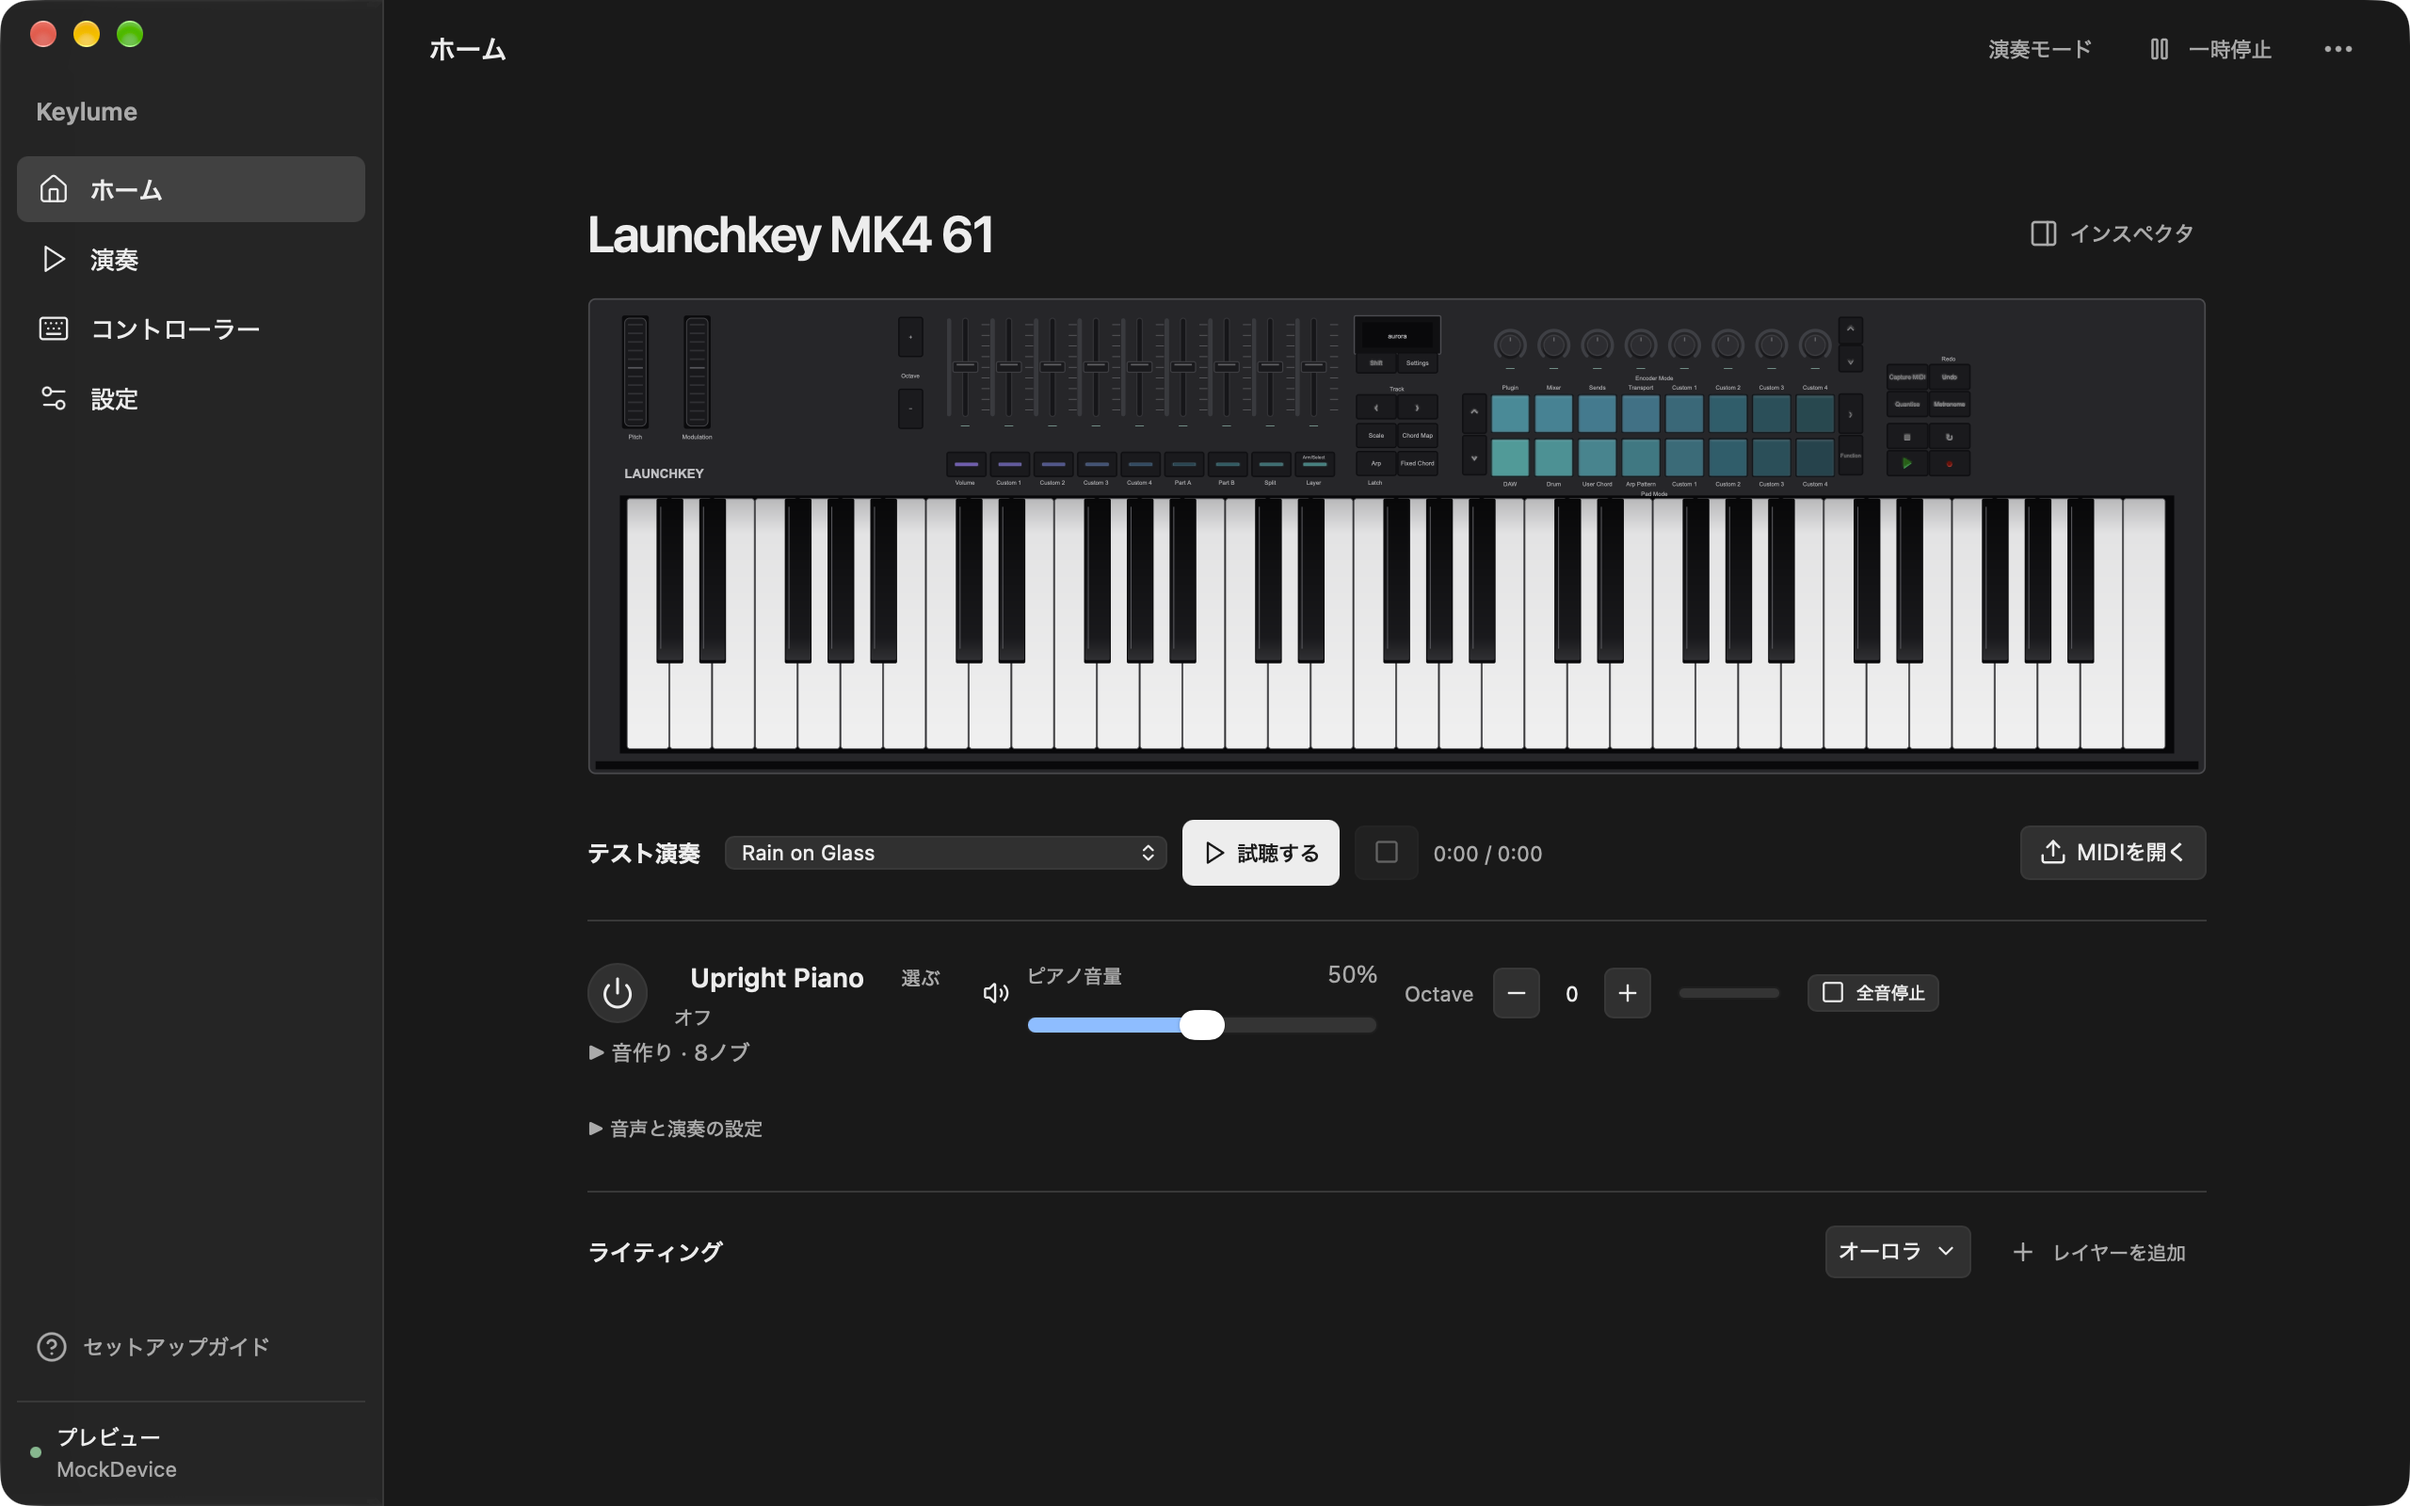
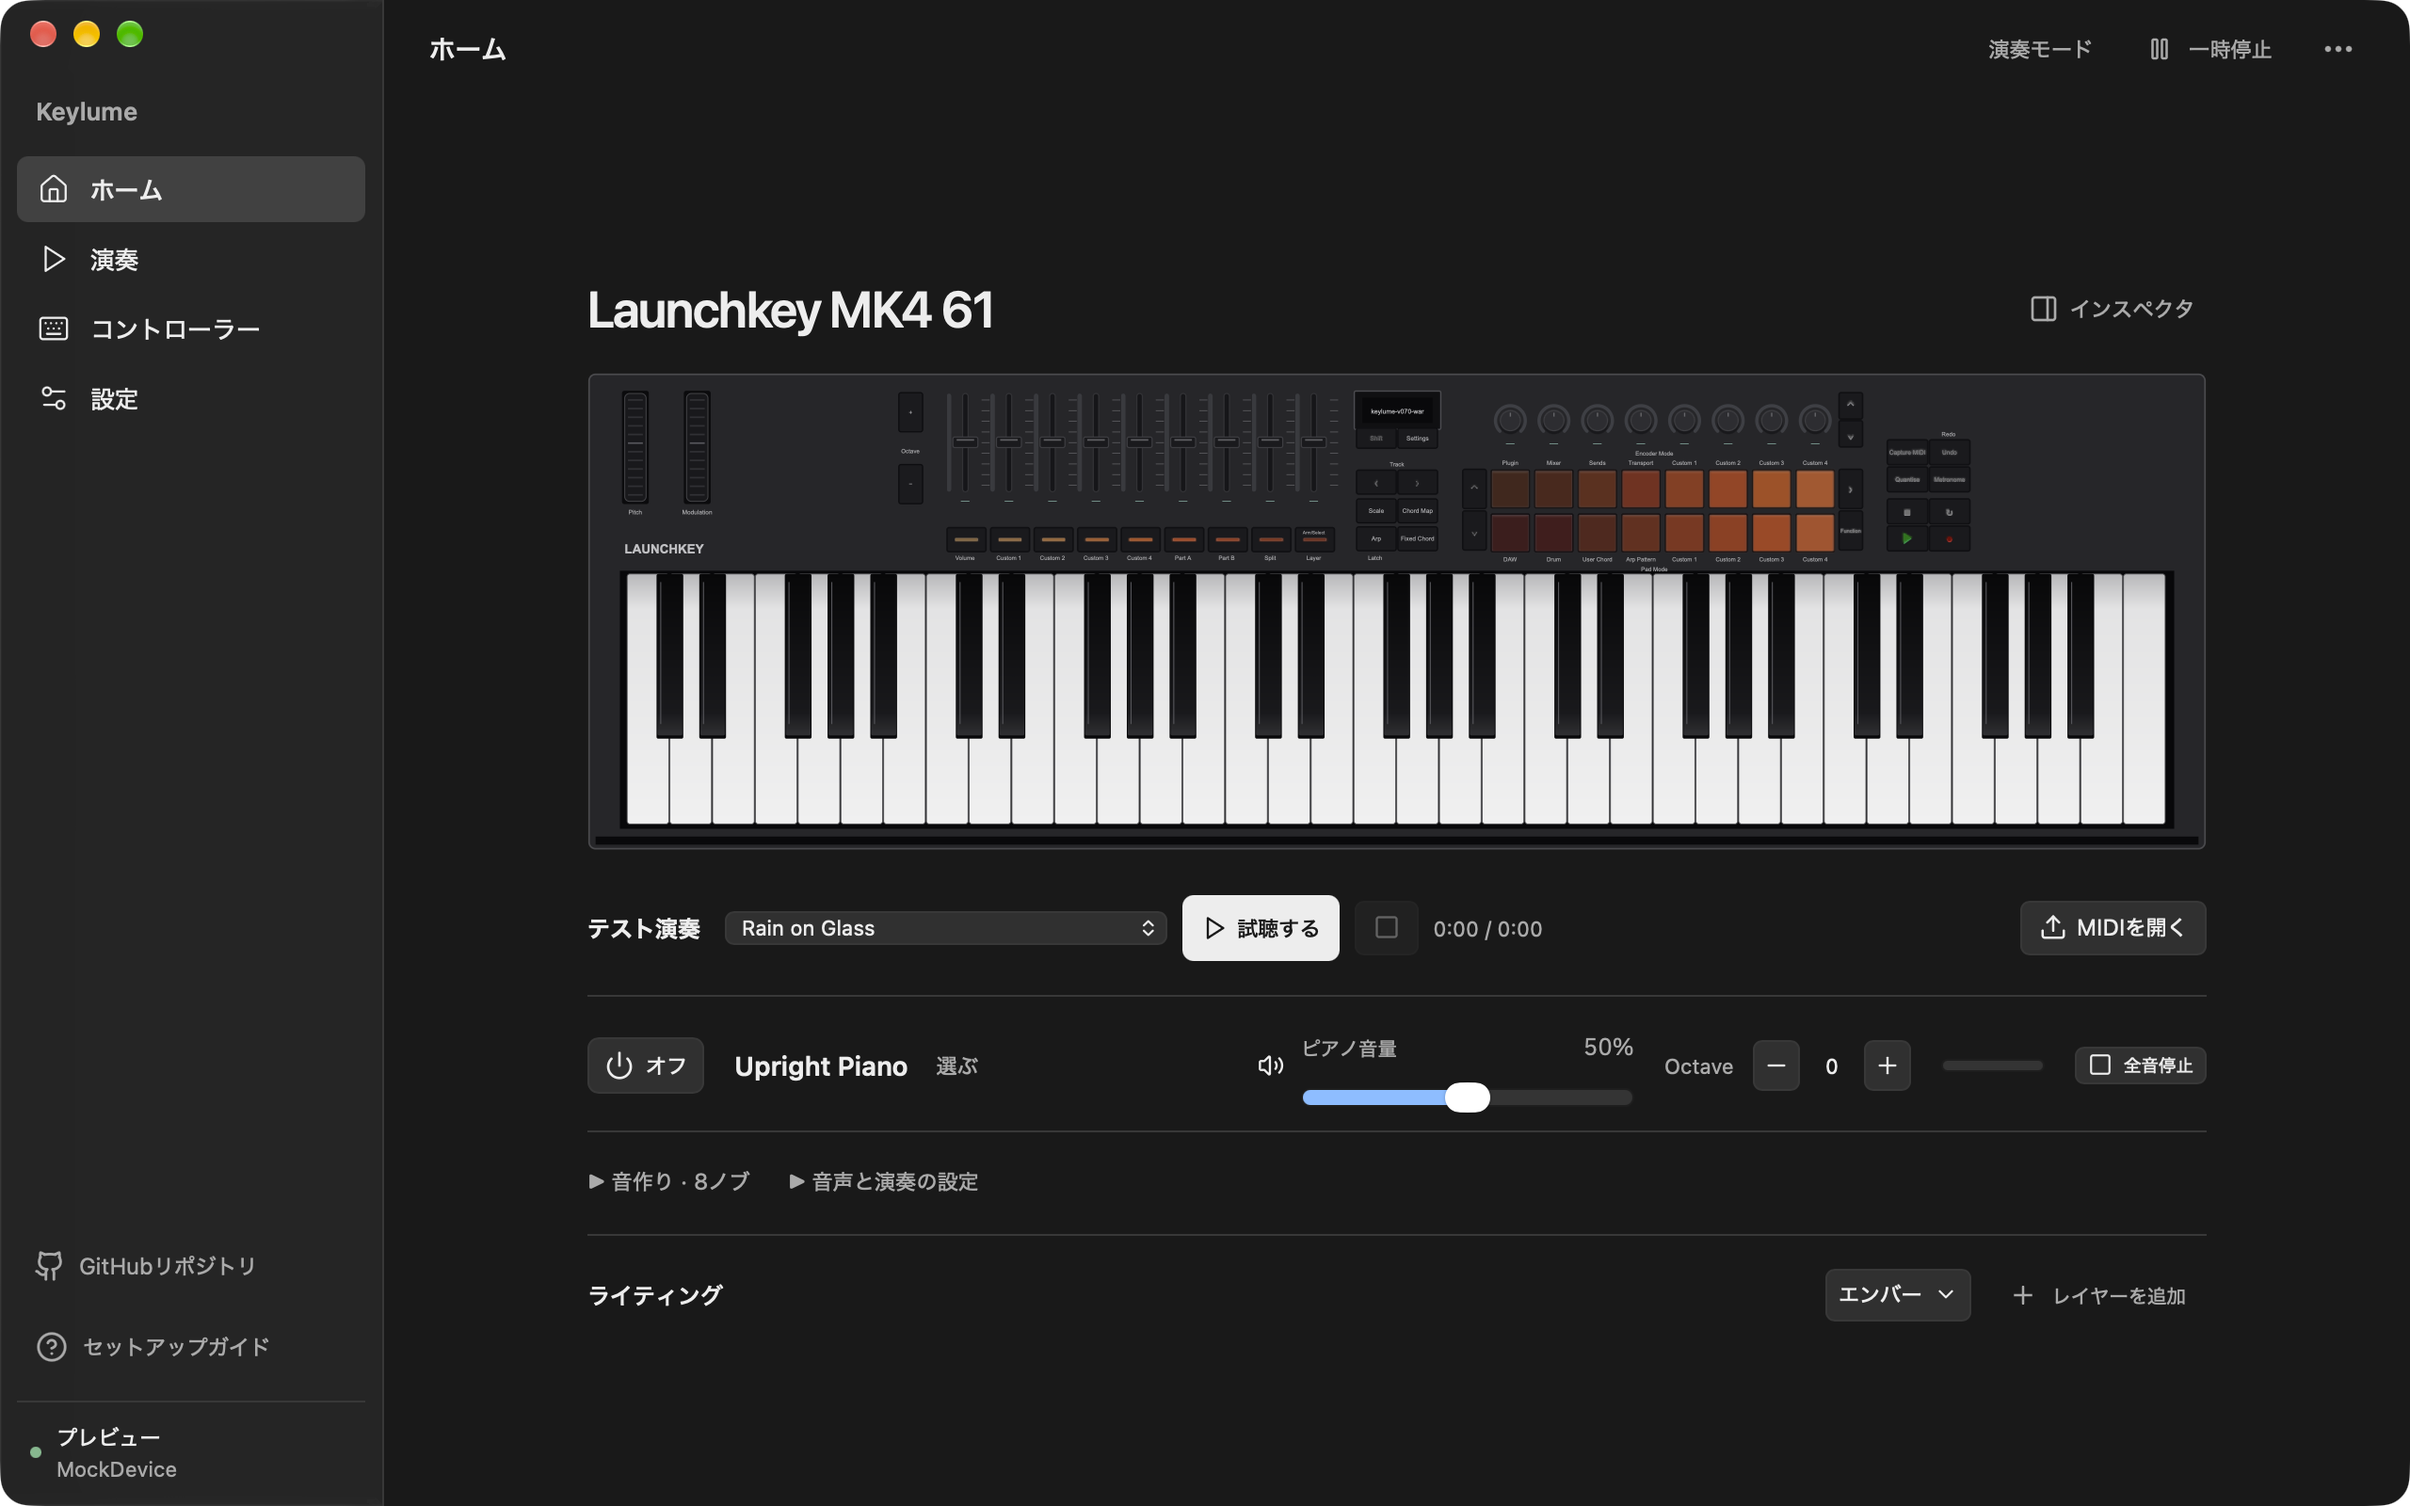
docs: show the revised piano controls and Mac downloads

diff --git a/docs/releases/v0.8.3.md b/docs/releases/v0.8.3.md
@@ -1,0 +1,14 @@
+# Keylume macOS v0.8.3 Preview
+
+- サイドバーの「GitHubリポジトリ」から Mac 版のソースとリリースを標準ブラウザで開けます。
+- **ピアノの操作**を整理しました。電源の横でオン・オフを確認でき、音作りはその下の独立した行から開けます。
+- **Modeled Grand の高音**で、ハンマーが当たった瞬間の響きと弦の余韻を調整しました。ホームの「選ぶ」から Modeled Grand に切り替えて試せます。
+- **MIDIの曲名**を読み込み時に決められます。ホームと「演奏」のどちらでも、拡張子を除いたファイル名が最初に入り、Enter で確定できます。編集した名前は再生画面にも反映されます。
+- **Macのホーム画面**を、鍵盤と再生操作が中心のレイアウトに変更しました。サイドバーには macOS 26 以降で Liquid Glass を使い、ライト・ダークの外観と「透明度を下げる」設定に対応しています。
+
+macOS 13.3 以降の Apple Silicon／Intel に対応します。
+
+- インストーラを使う場合は PKG を開いてください。`/Applications/Keylume.app` にインストールされます。[PKG をダウンロード](https://github.com/lingmulongtai/Keylume-macOS/releases/download/v0.8.3/Keylume_0.8.3_universal.pkg)
+- 手動でインストールする場合は DMG を開き、Keylume.app を「アプリケーション」にドラッグしてください。[DMG をダウンロード](https://github.com/lingmulongtai/Keylume-macOS/releases/download/v0.8.3/Keylume_0.8.3_universal.dmg)
+
+PKG は未署名です。両形式のアプリはアドホック署名済みで、Apple の公証は受けていません。

diff --git a/README.md b/README.md
@@ -8,8 +8,8 @@ Launchkey MK4 61 向けの非公式ライティングコントローラー＆常
 
 macOS 13.3 以降の Apple Silicon／Intel に対応します。どちらの形式でも同じ Keylume を使えます。
 
-- **PKG** を開き、インストーラの案内に従うと `/Applications/Keylume.app` がインストールされます。[PKG をダウンロード](https://github.com/lingmulongtai/Keylume-macOS/releases/download/v0.8.2/Keylume_0.8.2_universal.pkg)
-- **DMG** を開き、`Keylume.app` を「アプリケーション」にドラッグしてください。[DMG をダウンロード](https://github.com/lingmulongtai/Keylume-macOS/releases/download/v0.8.2/Keylume_0.8.2_universal.dmg)
+- **PKG** を開き、インストーラの案内に従うと `/Applications/Keylume.app` がインストールされます。[PKG をダウンロード](https://github.com/lingmulongtai/Keylume-macOS/releases/download/v0.8.3/Keylume_0.8.3_universal.pkg)
+- **DMG** を開き、`Keylume.app` を「アプリケーション」にドラッグしてください。[DMG をダウンロード](https://github.com/lingmulongtai/Keylume-macOS/releases/download/v0.8.3/Keylume_0.8.3_universal.dmg)
 
 PKG は未署名です。両形式のアプリはアドホック署名済みで、Apple の公証は受けていません。
 
